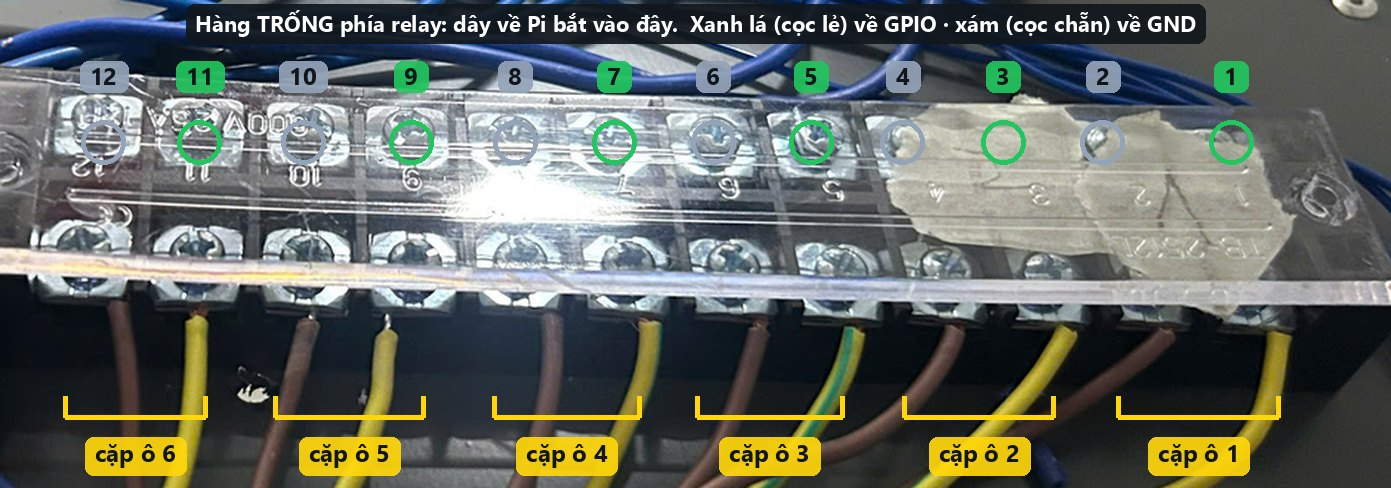
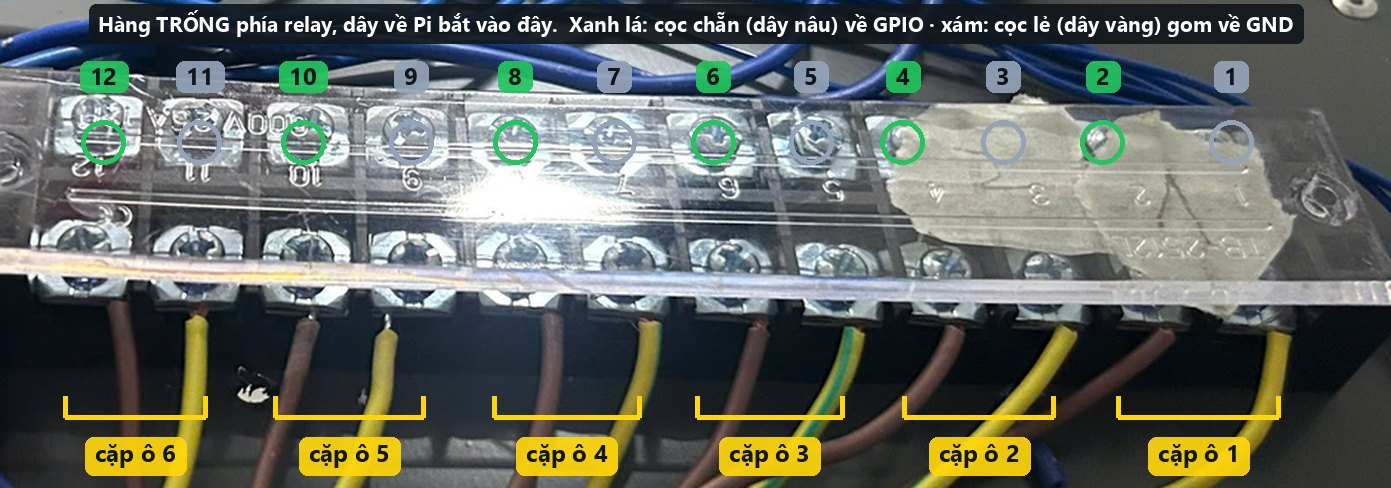
docs(hardware): bản đồ chân tủ lockr-tu01 theo hướng dẫn của người làm tủ
Người làm tủ gửi hướng dẫn nối dây riêng cho tủ này (2026-10-01):
- IN1…IN7 của relay về GPIO 5, 6, 13, 19, 26, 22, 23; DC+/DC− lấy 5 V và GND từ Pi.
- Dây nâu tín hiệu khoá về GPIO 4, 12, 16, 20, 21, 24, 25; dây vàng sọc xanh
  gom chung về GND.

cabinet-wiring-spec thêm § 6.1 (bảng chân, .env, lưu ý GPIO5/6 kéo lên lúc
khởi động); tu01-wiring-photos § 3–6, § 8 và § 9 mới (cấu hình trên Pi); ảnh
04-domino-1 đổi nhãn. DIR− và công tắc gốc của nắp trượt dời sang GPIO27,
GPIO17 vì trùng chân cửa. Hồ sơ Pi: .env và ExecStopPost theo chân mới, Pi đã
vào Wi-Fi của chỗ đặt tủ mới.

Refs: F2-G09

diff --git a/scripts/annotate-tu01-photos.py b/scripts/annotate-tu01-photos.py
@@ -125,10 +125,10 @@ c = Canvas('p07', (490, 440, 1430, 770), 1.48)
 top = {12: 560, 11: 625, 10: 695, 9: 768, 8: 838, 7: 905, 6: 972, 5: 1038, 4: 1100, 3: 1168, 2: 1235, 1: 1322}
 bot = {12: 548, 11: 615, 10: 690, 9: 762, 8: 838, 7: 908, 6: 975, 5: 1045, 4: 1115, 3: 1188, 2: 1260, 1: 1340}
 for n, x in top.items():
-    col = GRN if n % 2 else GRY
+    col = GRY if n % 2 else GRN      # người làm tủ: dây nâu (cọc chẵn) về GPIO, dây vàng sọc xanh (cọc lẻ) gom về GND
     c.circle(x, 536, 22, col, 5)
     c.pill(x, 492, str(n), 24, bg=col, fg=INK, anchor='mm')
-c.pill(960, 456, 'Hàng TRỐNG phía relay: dây về Pi bắt vào đây.  Xanh lá (cọc lẻ) về GPIO · xám (cọc chẵn) về GND', 22, anchor='mm')
+c.pill(960, 456, 'Hàng TRỐNG phía relay, dây về Pi bắt vào đây.  Xanh lá: cọc chẵn (dây nâu) về GPIO · xám: cọc lẻ (dây vàng) gom về GND', 21, anchor='mm')
 for o, (a, b) in zip(range(6, 0, -1), [(12, 11), (10, 9), (8, 7), (6, 5), (4, 3), (2, 1)]):
     xa, xb = bot[a], bot[b]
     c.line(xa - 14, 722, xb + 14, 722, YEL, 5); c.line(xa - 14, 722, xa - 14, 708, YEL, 5); c.line(xb + 14, 722, xb + 14, 708, YEL, 5)

diff --git a/03-hardware/tu01-wiring-photos.md b/03-hardware/tu01-wiring-photos.md
@@ -4,7 +4,7 @@
 |---|---|
 | **Dùng khi** | Đang đứng trước khoang điện của tủ, cần biết dây nào bắt vào cọc nào |
 | **Ảnh** | Ảnh gốc ở [`locker/`](../locker/) (toàn cảnh 2026-09-30, 12 ảnh chi tiết 2026-10-01). Ảnh có nhãn ở `img/tu01/`, sinh bằng `python scripts/annotate-tu01-photos.py` |
-| **Bản đồ chân** | [cabinet-wiring-spec § 6](cabinet-wiring-spec.md#6-bản-đồ-chân-gpio-của-pi-hardware_backendgpio) — file này chỉ thêm **vị trí thật trên tủ** |
+| **Bản đồ chân** | **Theo hướng dẫn của người làm tủ** (nhận 2026-10-01), khác mặc định trong code — [cabinet-wiring-spec § 6.1](cabinet-wiring-spec.md#61-tủ-lockr-tu01-chân-theo-người-làm-tủ). Pi đã đặt `.env` theo bản đồ này (§ 9) |
 | **Quy trình đầy đủ** | [controller-wiring-guide § 3–5](controller-wiring-guide.md#3-thứ-tự-nối-dây) |
 | **Gap** | F2-G09 |
 
@@ -53,16 +53,18 @@ Quy ước: **ô N** dùng relay `IN(N)` và là ô số N của tủ `CAB-TU01`
 |---|---|---|
 | `DC−` | 6 | GND |
 | `DC+` | 2 | 5 V nuôi cuộn relay |
-| `IN1` | 11 | GPIO17 · ô 1 |
-| `IN2` | 13 | GPIO27 · ô 2 |
-| `IN3` | 15 | GPIO22 · ô 3 |
-| `IN4` | 16 | GPIO23 · ô 4 |
-| `IN5` | 18 | GPIO24 · ô 5 |
-| `IN6` | 22 | GPIO25 · ô 6 |
-| `IN7` | 36 | GPIO16 · ô 7 |
+| `IN1` | 29 | GPIO5 · ô 1 |
+| `IN2` | 31 | GPIO6 · ô 2 |
+| `IN3` | 33 | GPIO13 · ô 3 |
+| `IN4` | 35 | GPIO19 · ô 4 |
+| `IN5` | 37 | GPIO26 · ô 5 |
+| `IN6` | 15 | GPIO22 · ô 6 |
+| `IN7` | 16 | GPIO23 · ô 7 |
 | `IN8` | — | để trống |
 
 3. Kiểm: chưa cắm 220 V, cắm USB-C cho Pi. Trong lúc Pi khởi động **không relay nào được kêu**. Relay nào kêu tách ngay là jumper kênh đó còn ở L.
+
+Người làm tủ dặn: cấp `5 V` và `GND` cho module từ Pi, rồi `IN1`–`IN7` về GPIO 5, 6, 13, 19, 26, 22, 23. Người làm tủ không nêu vị trí jumper. **GPIO5 và GPIO6 (`IN1`, `IN2`) được Pi kéo lên 3,3 V trong lúc khởi động**, trước khi `main.py` đưa chúng về mức thấp: nếu K1 hoặc K2 kêu trong khoảng đó thì dừng lại, xem § 8 mục 1.
 
 Đầu ra relay (dây xanh mảnh) nhà cung cấp đã nối sẵn tới dây âm của khoá và `−V`. Không tháo.
 
@@ -70,7 +72,9 @@ Quy ước: **ô N** dùng relay `IN(N)` và là ô số N của tủ `CAB-TU01`
 
 ![Domino 1: hàng trống phía relay và 6 cặp dây tín hiệu](img/tu01/04-domino-1.jpg)
 
-Hàng xa relay có 12 dây: nâu ở cọc chẵn, vàng ở cọc lẻ, mỗi cặp nâu + vàng là dây báo đóng/mở của một khoá. Hàng phía relay **trống**, dây về Pi bắt vào đó.
+Hàng xa relay có 12 dây: nâu ở cọc chẵn, vàng sọc xanh ở cọc lẻ, mỗi cặp nâu + vàng là dây báo đóng/mở của một khoá. Hàng phía relay **trống**, dây về Pi bắt vào đó.
+
+Người làm tủ dặn: **dây vàng sọc xanh gom chung rồi nối vào GND của Pi; dây nâu nối vào GPIO 4, 12, 16, 20, 21, 24, 25.**
 
 **Đo trước khi nối, bắt buộc:**
 
@@ -82,18 +86,19 @@ Nối dây (thứ tự ô bên dưới là dự kiến; bước 2 cho thứ tự
 
 | Cọc domino 1 (hàng trống) | Nối tới | Tín hiệu |
 |---|---|---|
-| 2 | chân 25 của Pi | GND chung |
-| 2 → 4 → 6 → 8 → 10 → 12 | 5 đoạn dây ngắn nối liền nhau | GND cho 6 cặp |
-| 1 | chân 29 | GPIO5 · cửa ô 1 |
-| 3 | chân 31 | GPIO6 · cửa ô 2 |
-| 5 | chân 32 | GPIO12 · cửa ô 3 |
-| 7 | chân 33 | GPIO13 · cửa ô 4 |
-| 9 | chân 35 | GPIO19 · cửa ô 5 |
-| 11 | chân 37 | GPIO26 · cửa ô 6 |
+| 1 (đối diện dây vàng) | chân 25 của Pi | GND chung |
+| 1 → 3 → 5 → 7 → 9 → 11 | 5 đoạn dây ngắn nối liền nhau | gom các dây vàng sọc xanh về GND |
+| 2 (đối diện dây nâu) | chân 7 | GPIO4 · cửa ô 1 |
+| 4 | chân 32 | GPIO12 · cửa ô 2 |
+| 6 | chân 36 | GPIO16 · cửa ô 3 |
+| 8 | chân 38 | GPIO20 · cửa ô 4 |
+| 10 | chân 40 | GPIO21 · cửa ô 5 |
+| 12 | chân 18 | GPIO24 · cửa ô 6 |
+| dây nâu thứ bảy | chân 22 | GPIO25 · cửa ô 7 |
 
 Không nối cọc GND chung này với `−V` của nguồn 12 V.
 
-Cặp thứ bảy: xem cọc 11–12 của domino 2 ở § 5.
+Người làm tủ nêu 7 chân GPIO cho 7 dây nâu, nhưng ảnh chỉ thấy **6 dây nâu** trên domino 1. Dây tín hiệu của khoá thứ bảy chưa xác định: hỏi lại người làm tủ, hoặc đo cặp dây vàng ở cọc 11–12 của domino 2 (§ 5).
 
 ## 5. Domino 2 và driver TB6600 — 4 dây (và cặp dây vàng)
 
@@ -120,13 +125,15 @@ Nối dây vào **phía trống** của cọc 4–7:
 | `PUL+` | 4 hoặc 7 (theo kết quả đo) | 1 — **3,3 V**, không phải 5 V |
 | `DIR+` | 6 | 17 — **3,3 V** |
 | `PUL−` | 5 | 12 — GPIO18 |
-| `DIR−` | 7 hoặc 4 | 40 — GPIO21 |
+| `DIR−` | 7 hoặc 4 | 13 — GPIO27 |
+
+Người làm tủ chưa nêu chân cho nắp trượt. GPIO21 (mặc định của `DIR−` trong code) đã dùng cho cửa ô 5 nên `DIR−` dời sang GPIO27.
 
 `ENA−`, `ENA+` trên driver để trống. Tài liệu nhà cung cấp bảo nối `PUL+`, `DIR+` vào 5 V; với Pi phải là 3,3 V ([spec § 6](cabinet-wiring-spec.md#6-bản-đồ-chân-gpio-của-pi-hardware_backendgpio)).
 
 **Cặp dây vàng ở cọc 11–12.** Đo như § 4: 0 V so với `−V`, rồi thông mạch khi đóng mở cửa ô còn lại hoặc khi bấm tay công tắc hành trình của nắp.
 
-- Là cặp tín hiệu của ô 7: cọc 11 → chân 38 (GPIO20), cọc 12 → chân 30 (GND).
+- Là cặp tín hiệu của ô 7: một cọc → chân 22 (GPIO25), cọc kia → chân 30 (GND).
 - Là công tắc hành trình: nối theo § 6.
 
 ## 6. Công tắc hành trình của nắp trượt — 4 dây
@@ -135,10 +142,10 @@ Nối dây vào **phía trống** của cọc 4–7:
 
 | Công tắc | Cọc `NO` → chân Pi | Cọc `COM` → chân Pi |
 |---|---|---|
-| Gốc (bị nhấn khi nắp **đóng** hết) | 7 — GPIO4 | 9 — GND |
+| Gốc (bị nhấn khi nắp **đóng** hết) | 11 — GPIO17 | 9 — GND |
 | Cuối (bị nhấn khi nắp **mở** hết) | 19 — GPIO10 | 14 — GND |
 
-Công tắc chỉ có cọc `NC`: vẫn nối được, đổi `LID_LIMIT_ACTIVE_LOW=false`.
+GPIO4 (mặc định của công tắc gốc trong code) đã dùng cho cửa ô 1 nên công tắc gốc dời sang GPIO17. Công tắc chỉ có cọc `NC`: vẫn nối được, đổi `LID_LIMIT_ACTIVE_LOW=false`.
 
 ## 7. Nguồn tổ ong
 
@@ -150,13 +157,30 @@ Công tắc chọn điện áp phải ở **220 V**. Không vặn biến trở `
 
 | # | Câu hỏi | Cách biết |
 |---|---|---|
-| 1 | Jumper đang ở H hay L | Đọc chữ in cạnh jumper; bước kiểm ở § 3 |
-| 2 | Cặp nào trên domino 1 thuộc ô nào | Thông mạch khi đóng mở từng cửa (§ 4) |
+| 1 | Jumper đang ở H hay L, và K1/K2 có kêu lúc Pi khởi động không (GPIO5, GPIO6 bị kéo lên) | Đọc chữ in cạnh jumper; bước kiểm ở § 3. K1/K2 kêu ⇒ thêm `gpio=5,6,13,19,26,22,23=op,dl` vào `/boot/firmware/config.txt` (chưa thử trên Pi 5 này), hoặc hỏi người làm tủ jumper đặt mức nào |
+| 2 | Cặp nào trên domino 1 thuộc ô nào; dây nâu thứ bảy ở đâu | Thông mạch khi đóng mở từng cửa (§ 4); hỏi người làm tủ |
 | 3 | Dây tín hiệu khoá có phải tiếp điểm khô | Đo điện áp so với `−V` (§ 4) |
 | 4 | Cọc 4 hay cọc 7 của domino 2 là `PUL+` | Thông mạch từ vít driver (§ 5) |
 | 5 | Cặp dây vàng ở cọc 11–12 của domino 2 là gì | Thông mạch khi đóng mở cửa hoặc bấm công tắc (§ 5) |
-| 6 | Dây hai công tắc hành trình về tới đâu | Lần dây từ ray nắp (§ 6) |
+| 6 | Dây hai công tắc hành trình về tới đâu; người làm tủ nối nắp trượt vào chân nào | Lần dây từ ray nắp (§ 6); hỏi người làm tủ |
 
-## 9. Sau khi nối
+## 9. Cấu hình trên Pi cho bản đồ chân này
+
+Bản đồ chân của người làm tủ khác mặc định trong `iot/config/settings.py`, nên `~/iot/.env` của Pi `lockr-tu01` đặt (đã áp dụng 2026-10-01, `main.py` báo `System is READY`):
+
+```
+GPIO_RELAY_PINS=5,6,13,19,26,22,23
+GPIO_DOOR_PINS=4,12,16,20,21,24,25
+LID_PUL_PIN=18
+LID_DIR_PIN=27
+LID_HOME_PIN=17
+LID_END_PIN=10
+```
+
+`ExecStopPost` của `lockr-controller.service` đổi theo: `pinctrl set 5,6,13,19,26,22,23 op dl`.
+
+**Không nối dây theo file này vào một Pi còn chạy chân mặc định.** Với chân mặc định, GPIO16, 24, 25 là ngõ ra relay và GPIO21 là ngõ ra `DIR−` ở mức cao; nối dây tín hiệu khoá vào đó thì cửa đóng sẽ chập ngõ ra xuống GND.
+
+## 10. Sau khi nối
 
 Bring-up theo [controller-wiring-guide § 5](controller-wiring-guide.md#5-kiểm-tra-từng-bước-bring-up): `debug_gpio.py pins`, `doors`, `open N`, `lid …`. Sai thứ tự ô, sai chiều nắp, relay kích ngược đều sửa bằng `.env`, không phải nối lại. Xong thì gán Pi vào tủ `CAB-TU01` trên admin (guide § 5.8) và chuyển tủ từ `MAINTENANCE` sang `ACTIVE`.

diff --git a/STATUS.md b/STATUS.md
@@ -56,7 +56,7 @@ Mọi con số bên dưới đúng với các commit này. Trước khi tin STAT
 | Bước nạp hàng drone bắt buộc trước launch | F1-G08 | Codex · local `main` backend/mobile | Code + migration + test đã xong; backend 104 test xanh, mobile 50 test xanh, analyzer sạch; **chưa commit/merge/deploy** |
 | L4 trợ lý RAG lên chạy thật: nạp khoá, seed tài liệu, chạy bộ đánh giá, chỉnh ngưỡng | F4-G09 | Chủ dự án | Code đã deploy; chờ `ANTHROPIC_API_KEY`, `EMBEDDING_API_KEY` trên VM ([runbook § 11b](04-engineering/cau-hinh-dich-vu-ngoai.md)) rồi chạy `backend/scripts/seed-knowledge.sh` |
 | Kiểm dữ liệu production bị lỗi thuê ô trước backend #20: đơn RENTAL bị COMPLETED sớm từ 2026-09-17, đơn INITIALIZED chưa trả tiền (giờ bị chặn mở ô), đơn thuê STORING quá hạn | F2-G01 | Chủ dự án | Chưa chạy truy vấn |
-| Lắp tủ vật lý theo sơ đồ nhà cung cấp: Pi nối thẳng GPIO vào relay, cảm biến, TB6600 + công tắc hành trình ([ADR-0007](adr/0007-tu-nam-viet-pi-dieu-khien-gpio-truc-tiep.md)), kiosk trên Pi | F2-G09 | Chủ dự án | Code GPIO (khoá, cảm biến, nắp trượt — [iot#8](https://github.com/LockR-Tech/iot/pull/8)) đang chạy trên Pi 5 `lockr-tu01` ở chế độ `gpio`, nắp bật; kiosk :3002 ([hồ sơ](03-hardware/pi-lockr-tu01.md)); chạy trên thẻ microSD từ 2026-09-27. Màn cảm ứng Waveshare 7" đã lắp 2026-09-30, kiosk có bàn phím ảo ([iot#10](https://github.com/LockR-Tech/iot/pull/10)). Tủ **`CAB-TU01`** (id 7, 7 ô, `MAINTENANCE`) đã tạo trên production 2026-10-01. **Đang nối dây** theo [hướng dẫn có ảnh](03-hardware/tu01-wiring-photos.md); relay, dây tín hiệu khoá, driver chưa nối về Pi. Pi chạy `f76eaaa`, chưa phục vụ tủ nào. Sau khi nối: bring-up guide § 5, gán Pi vào `CAB-TU01` (§ 5.8), đổi kiosk sang tủ này, chuyển tủ sang `ACTIVE`. Code còn nợ: lệnh MQTT cho nắp ([mục 7](03-hardware/controller-wiring-guide.md#7-việc-còn-nợ-trong-code)) |
+| Lắp tủ vật lý theo sơ đồ nhà cung cấp: Pi nối thẳng GPIO vào relay, cảm biến, TB6600 + công tắc hành trình ([ADR-0007](adr/0007-tu-nam-viet-pi-dieu-khien-gpio-truc-tiep.md)), kiosk trên Pi | F2-G09 | Chủ dự án | Code GPIO (khoá, cảm biến, nắp trượt — [iot#8](https://github.com/LockR-Tech/iot/pull/8)) đang chạy trên Pi 5 `lockr-tu01` ở chế độ `gpio`, nắp bật; kiosk :3002 ([hồ sơ](03-hardware/pi-lockr-tu01.md)); chạy trên thẻ microSD từ 2026-09-27. Màn cảm ứng Waveshare 7" đã lắp 2026-09-30, kiosk có bàn phím ảo ([iot#10](https://github.com/LockR-Tech/iot/pull/10)). Tủ **`CAB-TU01`** (id 7, 7 ô, `MAINTENANCE`) đã tạo trên production 2026-10-01. **Đang nối dây** theo [hướng dẫn có ảnh](03-hardware/tu01-wiring-photos.md), số chân theo người làm tủ ([spec § 6.1](03-hardware/cabinet-wiring-spec.md#61-tủ-lockr-tu01-chân-theo-người-làm-tủ), Pi đã đặt `.env` tương ứng); relay, dây tín hiệu khoá, driver chưa nối về Pi. Pi chạy `f76eaaa`, chưa phục vụ tủ nào. Sau khi nối: bring-up guide § 5, gán Pi vào `CAB-TU01` (§ 5.8), đổi kiosk sang tủ này, chuyển tủ sang `ACTIVE`. Code còn nợ: lệnh MQTT cho nắp ([mục 7](03-hardware/controller-wiring-guide.md#7-việc-còn-nợ-trong-code)) |
 | Bật broker MQTT riêng trên VM: `.env` VM, `mqtt-device.sh add` cho Pi, `enable-mqtt-websocket.sh`, đổi `.env` Pi — [mqtt-contract § 6](01-overview/mqtt-contract.md#6-bật-broker-riêng-trên-vm) | SEC-04 | Chủ dự án (cần SSH VM) | Code đã deploy, broker chưa chạy (`COMPOSE_PROFILES` chưa có `mqtt`); làm trước khi tủ chứa hàng thật |
 
 Các nút thắt vận hành hiện có:

diff --git a/03-hardware/cabinet-wiring-spec.md b/03-hardware/cabinet-wiring-spec.md
@@ -123,3 +123,42 @@ Vì sao chọn các chân này:
 1. Jumper module relay đặt **H**. Ở L, đầu vào kéo lên 5 V; GPIO 3,3 V để lại ~1,7 V trên opto nên relay không nhả hẳn.
 2. `PUL+`, `DIR+` nối **3,3 V**, không nối +5 V — cùng lý do; code phát xung mức thấp (`LID_STEP_ACTIVE_LOW=true`).
 3. **Đo dây tín hiệu khoá trước khi nối**: phải là tiếp điểm khô (thông/ngắt theo cửa, không có điện áp). Có 12 V trên cặp dây này mà nối vào GPIO là hỏng Pi.
+
+### 6.1 Tủ `lockr-tu01`: chân theo người làm tủ
+
+Ngày 2026-10-01 người làm tủ gửi hướng dẫn nối dây riêng cho tủ này. Bảng ở trên là **mặc định trong code**; tủ `lockr-tu01` nối theo người làm tủ và đặt lại chân bằng `.env`. Vị trí từng cọc trên tủ: [tu01-wiring-photos.md](tu01-wiring-photos.md).
+
+| Ô | Relay | Chân relay (người làm tủ) | Dây nâu tín hiệu khoá (người làm tủ) |
+|---|---|---|---|
+| 1 | `IN1` | GPIO5 (29) | GPIO4 (7) |
+| 2 | `IN2` | GPIO6 (31) | GPIO12 (32) |
+| 3 | `IN3` | GPIO13 (33) | GPIO16 (36) |
+| 4 | `IN4` | GPIO19 (35) | GPIO20 (38) |
+| 5 | `IN5` | GPIO26 (37) | GPIO21 (40) |
+| 6 | `IN6` | GPIO22 (15) | GPIO24 (18) |
+| 7 | `IN7` | GPIO23 (16) | GPIO25 (22) |
+
+| Tín hiệu | Nối vào | Nguồn |
+|---|---|---|
+| Relay `DC+` · `DC-` | 5 V (chân 2) · GND (chân 6) | người làm tủ: "cấp nguồn 5 V và GND từ Pi" |
+| Dây vàng sọc xanh của các khoá | gom chung → GND (chân 25) | người làm tủ |
+| TB6600 `PUL-` · `DIR-` | GPIO18 (12) · **GPIO27 (13)** | người làm tủ chưa nêu; `DIR-` dời khỏi GPIO21 vì trùng dây khoá ô 5 |
+| TB6600 `PUL+` · `DIR+` | 3,3 V (chân 1 · chân 17) | như mục 6 |
+| Công tắc hành trình gốc · cuối | **GPIO17 (11)** · GPIO10 (19), chân kia → GND (9 · 14) | người làm tủ chưa nêu; gốc dời khỏi GPIO4 vì trùng dây khoá ô 1 |
+
+```
+GPIO_RELAY_PINS=5,6,13,19,26,22,23
+GPIO_DOOR_PINS=4,12,16,20,21,24,25
+LID_PUL_PIN=18
+LID_DIR_PIN=27
+LID_HOME_PIN=17
+LID_END_PIN=10
+```
+
+Người làm tủ liệt kê chân relay theo thứ tự `IN1`→`IN7`. Bảy chân dây nâu được liệt kê tăng dần, chưa chắc là thứ tự ô; thứ tự thật lấy từ phép thử đóng mở cửa rồi sắp lại `GPIO_DOOR_PINS`.
+
+Khác với lý do chọn chân ở trên:
+
+- **GPIO5, GPIO6 (`IN1`, `IN2`) kéo lên lúc Pi khởi động.** Với jumper H, hai relay này có thể hút từ lúc cấp điện tới khi `main.py` chạy. Phải kiểm khi nối (không relay nào kêu lúc khởi động). Nếu kêu: ép mức thấp từ firmware bằng `gpio=5,6,13,19,26,22,23=op,dl` trong `/boot/firmware/config.txt` (chưa thử trên Pi 5 này), hoặc hỏi lại người làm tủ vị trí jumper.
+- Đổi `GPIO_RELAY_PINS` thì `ExecStopPost` của `lockr-controller.service` đổi theo: `pinctrl set 5,6,13,19,26,22,23 op dl`.
+- Ba chỉnh sửa vì GPIO 3,3 V (jumper H, `PUL+`/`DIR+` về 3,3 V, đo dây tín hiệu khoá trước) vẫn giữ nguyên.

diff --git a/CHANGELOG.md b/CHANGELOG.md
@@ -4,6 +4,7 @@ Mỗi thay đổi ở repo docs thêm **một dòng** vào ngày tương ứng (
 
 ## 2026-10-01
 
+- F2-G09: bản đồ chân tủ `lockr-tu01` đổi theo **hướng dẫn của người làm tủ** — `IN1…IN7` về GPIO 5, 6, 13, 19, 26, 22, 23; dây nâu tín hiệu khoá về GPIO 4, 12, 16, 20, 21, 24, 25; dây vàng sọc xanh gom về GND. `cabinet-wiring-spec` thêm § 6.1; `tu01-wiring-photos` § 3–6, § 8, thêm § 9 (`.env` trên Pi), ảnh `04-domino-1.jpg` đổi nhãn; hồ sơ Pi § 6, § 9. `DIR−` và công tắc gốc của nắp dời sang GPIO27, GPIO17 vì trùng chân cửa. Không đổi verdict/%. Pi đã vào Wi-Fi của chỗ đặt tủ mới.
 - F2-G09: [03-hardware/tu01-wiring-photos.md](03-hardware/tu01-wiring-photos.md) — nối dây tủ `lockr-tu01` theo ảnh; ảnh gốc ở `locker/`, ảnh đánh nhãn ở `03-hardware/img/tu01/` (sinh bằng `scripts/annotate-tu01-photos.py`). Guide § 3.F, § 4.5 (kiosk.sh thoát theo labwc, watchdog, `mouseEmulation`), § 6; hồ sơ Pi: sự cố 22–25, tủ `CAB-TU01` id 7, Pi lên `f76eaaa` ([iot#10](https://github.com/LockR-Tech/iot/pull/10)), Pi đổi chỗ. STATUS § 0 mốc iot `137d945` → `f76eaaa`, § 3, § 4, § 5. Không đổi verdict/%.
 
 ## 2026-09-29
